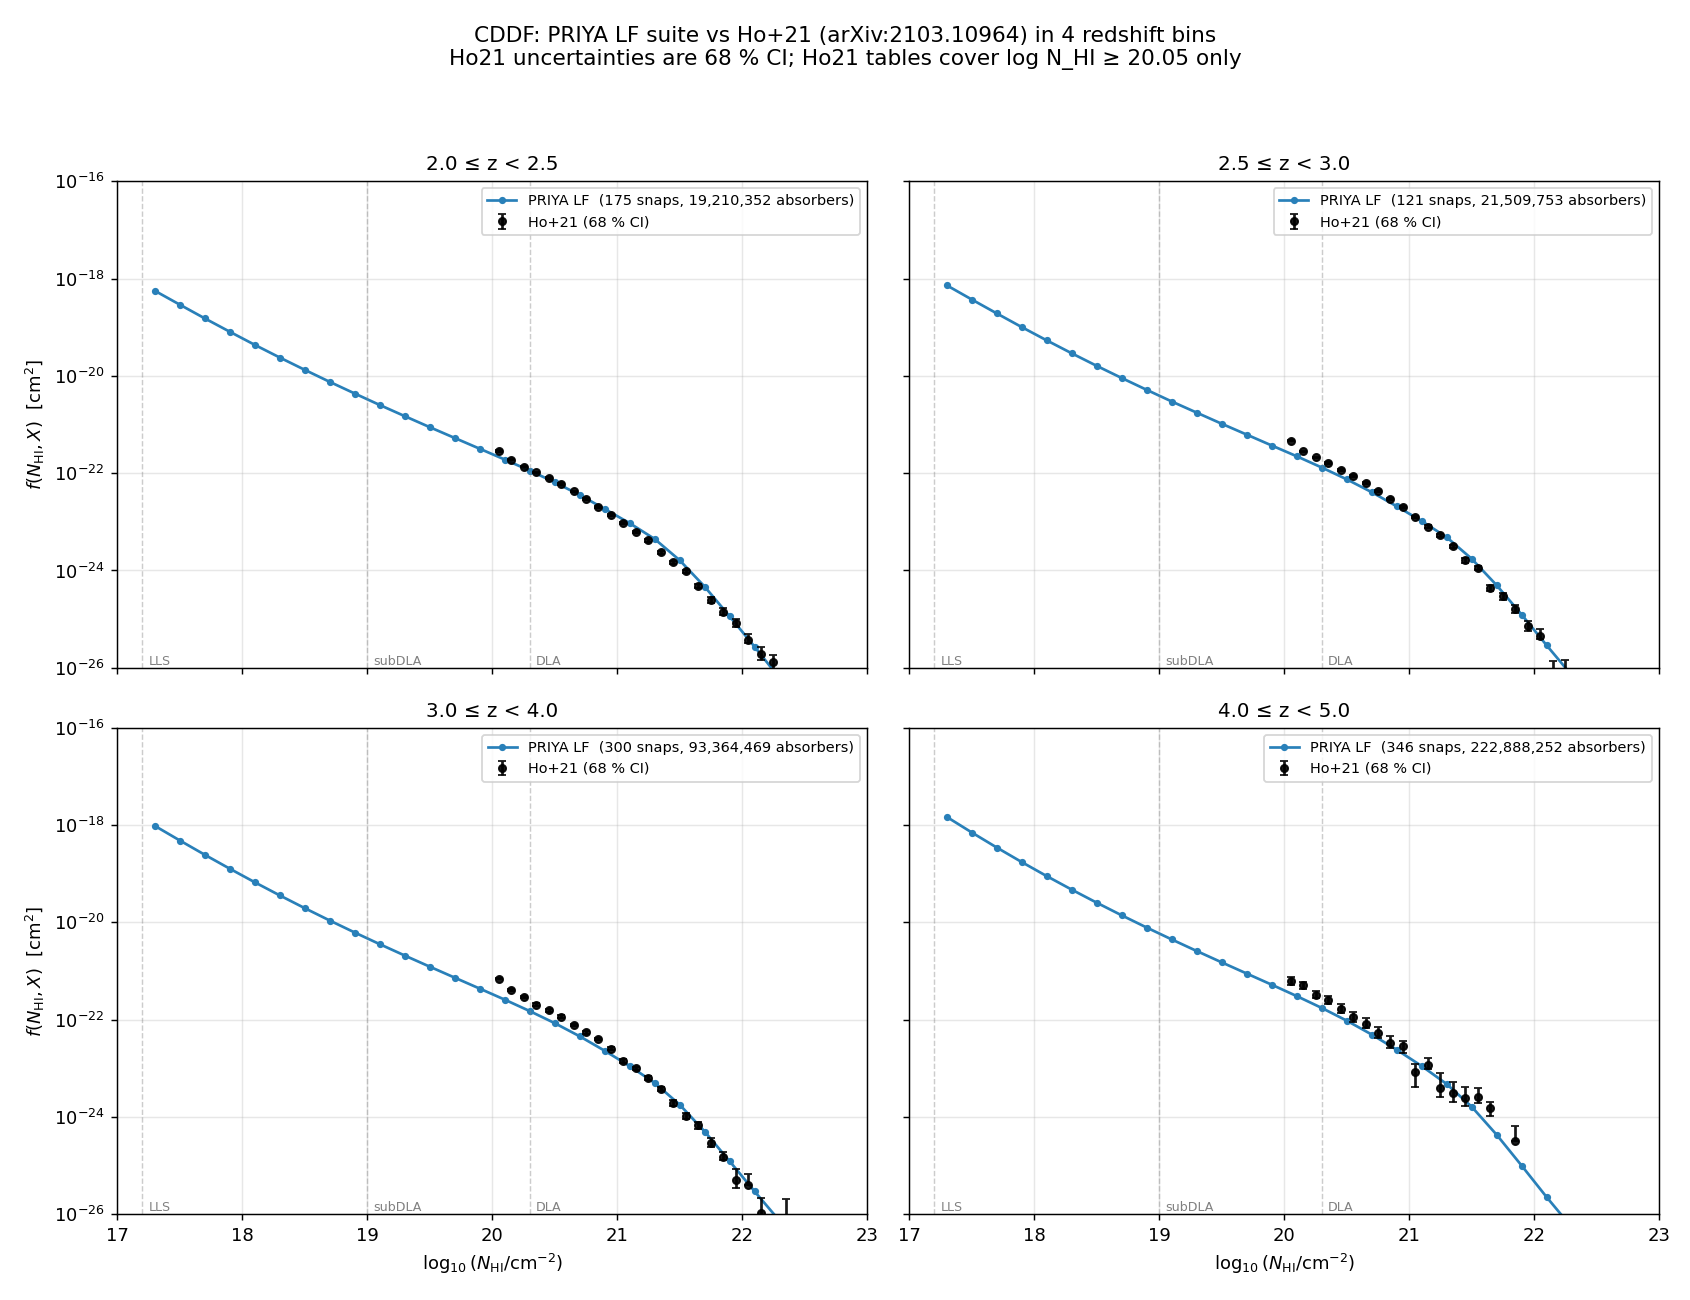
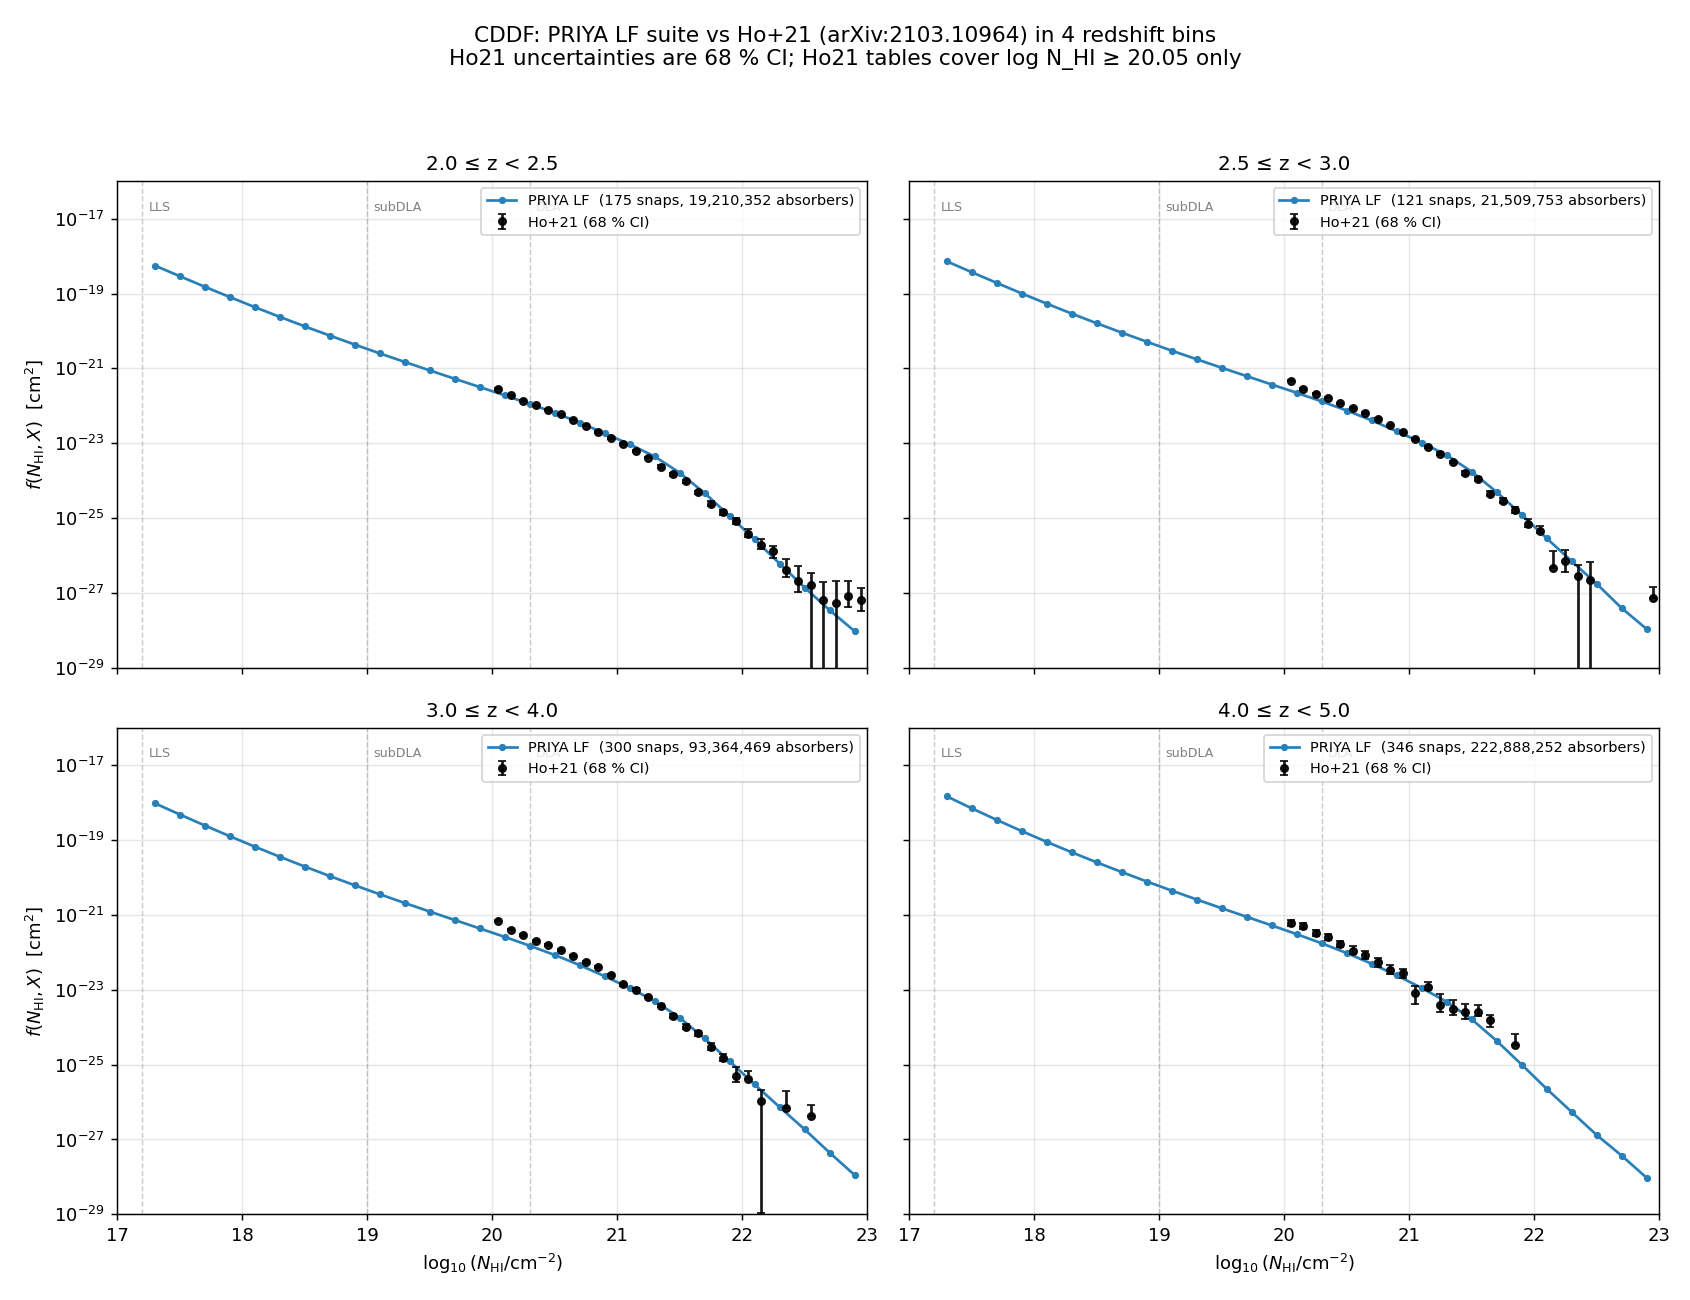
Extend ylim on plot_cddf_vs_ho21 so log N_HI > 22 is visible
Original ylim=(1e-26, 1e-16) clipped the PRIYA CDDF tail at log N_HI ~
22-23 where f(N) drops below 1e-26.  Extend to 1e-29; move class-label
text to the upper strip (1e-17, va=top) since the lower strip is now
data.

diff --git a/scripts/plot_cddf_vs_ho21.py b/scripts/plot_cddf_vs_ho21.py
@@ -156,11 +156,11 @@ def plot_grid(outpath: Path):
 
         for logN, cls in CLASS_LINES:
             ax.axvline(logN, ls="--", color="gray", alpha=0.4, lw=0.8)
-            ax.text(logN + 0.05, 1e-26, cls, fontsize=7, color="gray", va="bottom")
+            ax.text(logN + 0.05, 3e-17, cls, fontsize=7, color="gray", va="top")
 
         ax.set_title(f"{z_lo:.1f} ≤ z < {z_hi:.1f}", fontsize=11)
         ax.set_xlim(17, 23)
-        ax.set_ylim(1e-26, 1e-16)
+        ax.set_ylim(1e-29, 1e-16)
         ax.grid(True, alpha=0.3, which="both")
         ax.legend(fontsize=8, loc="upper right")
         if i % 2 == 0:
